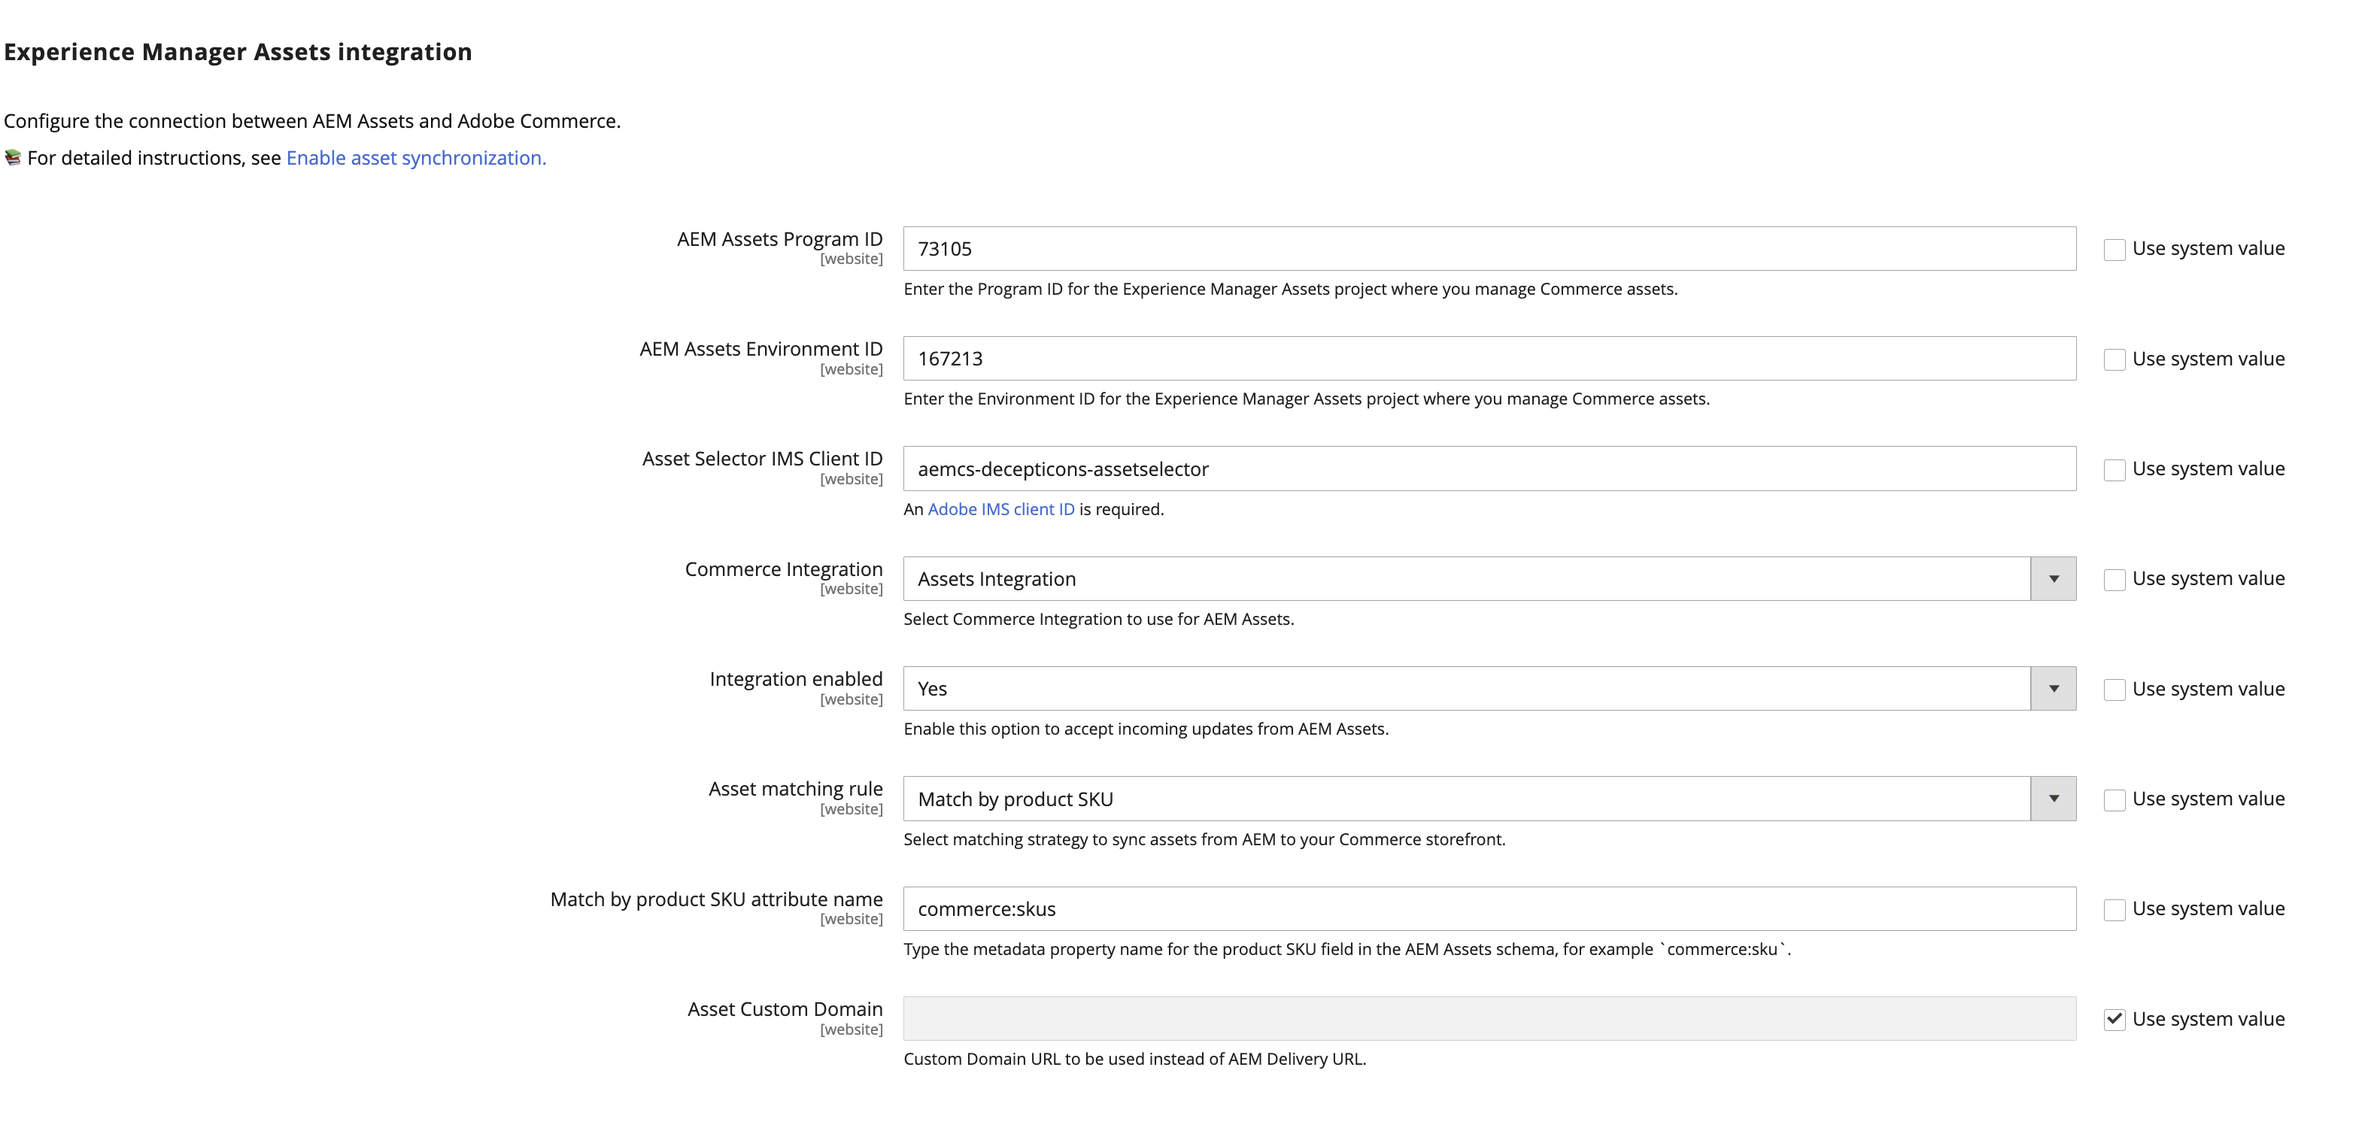
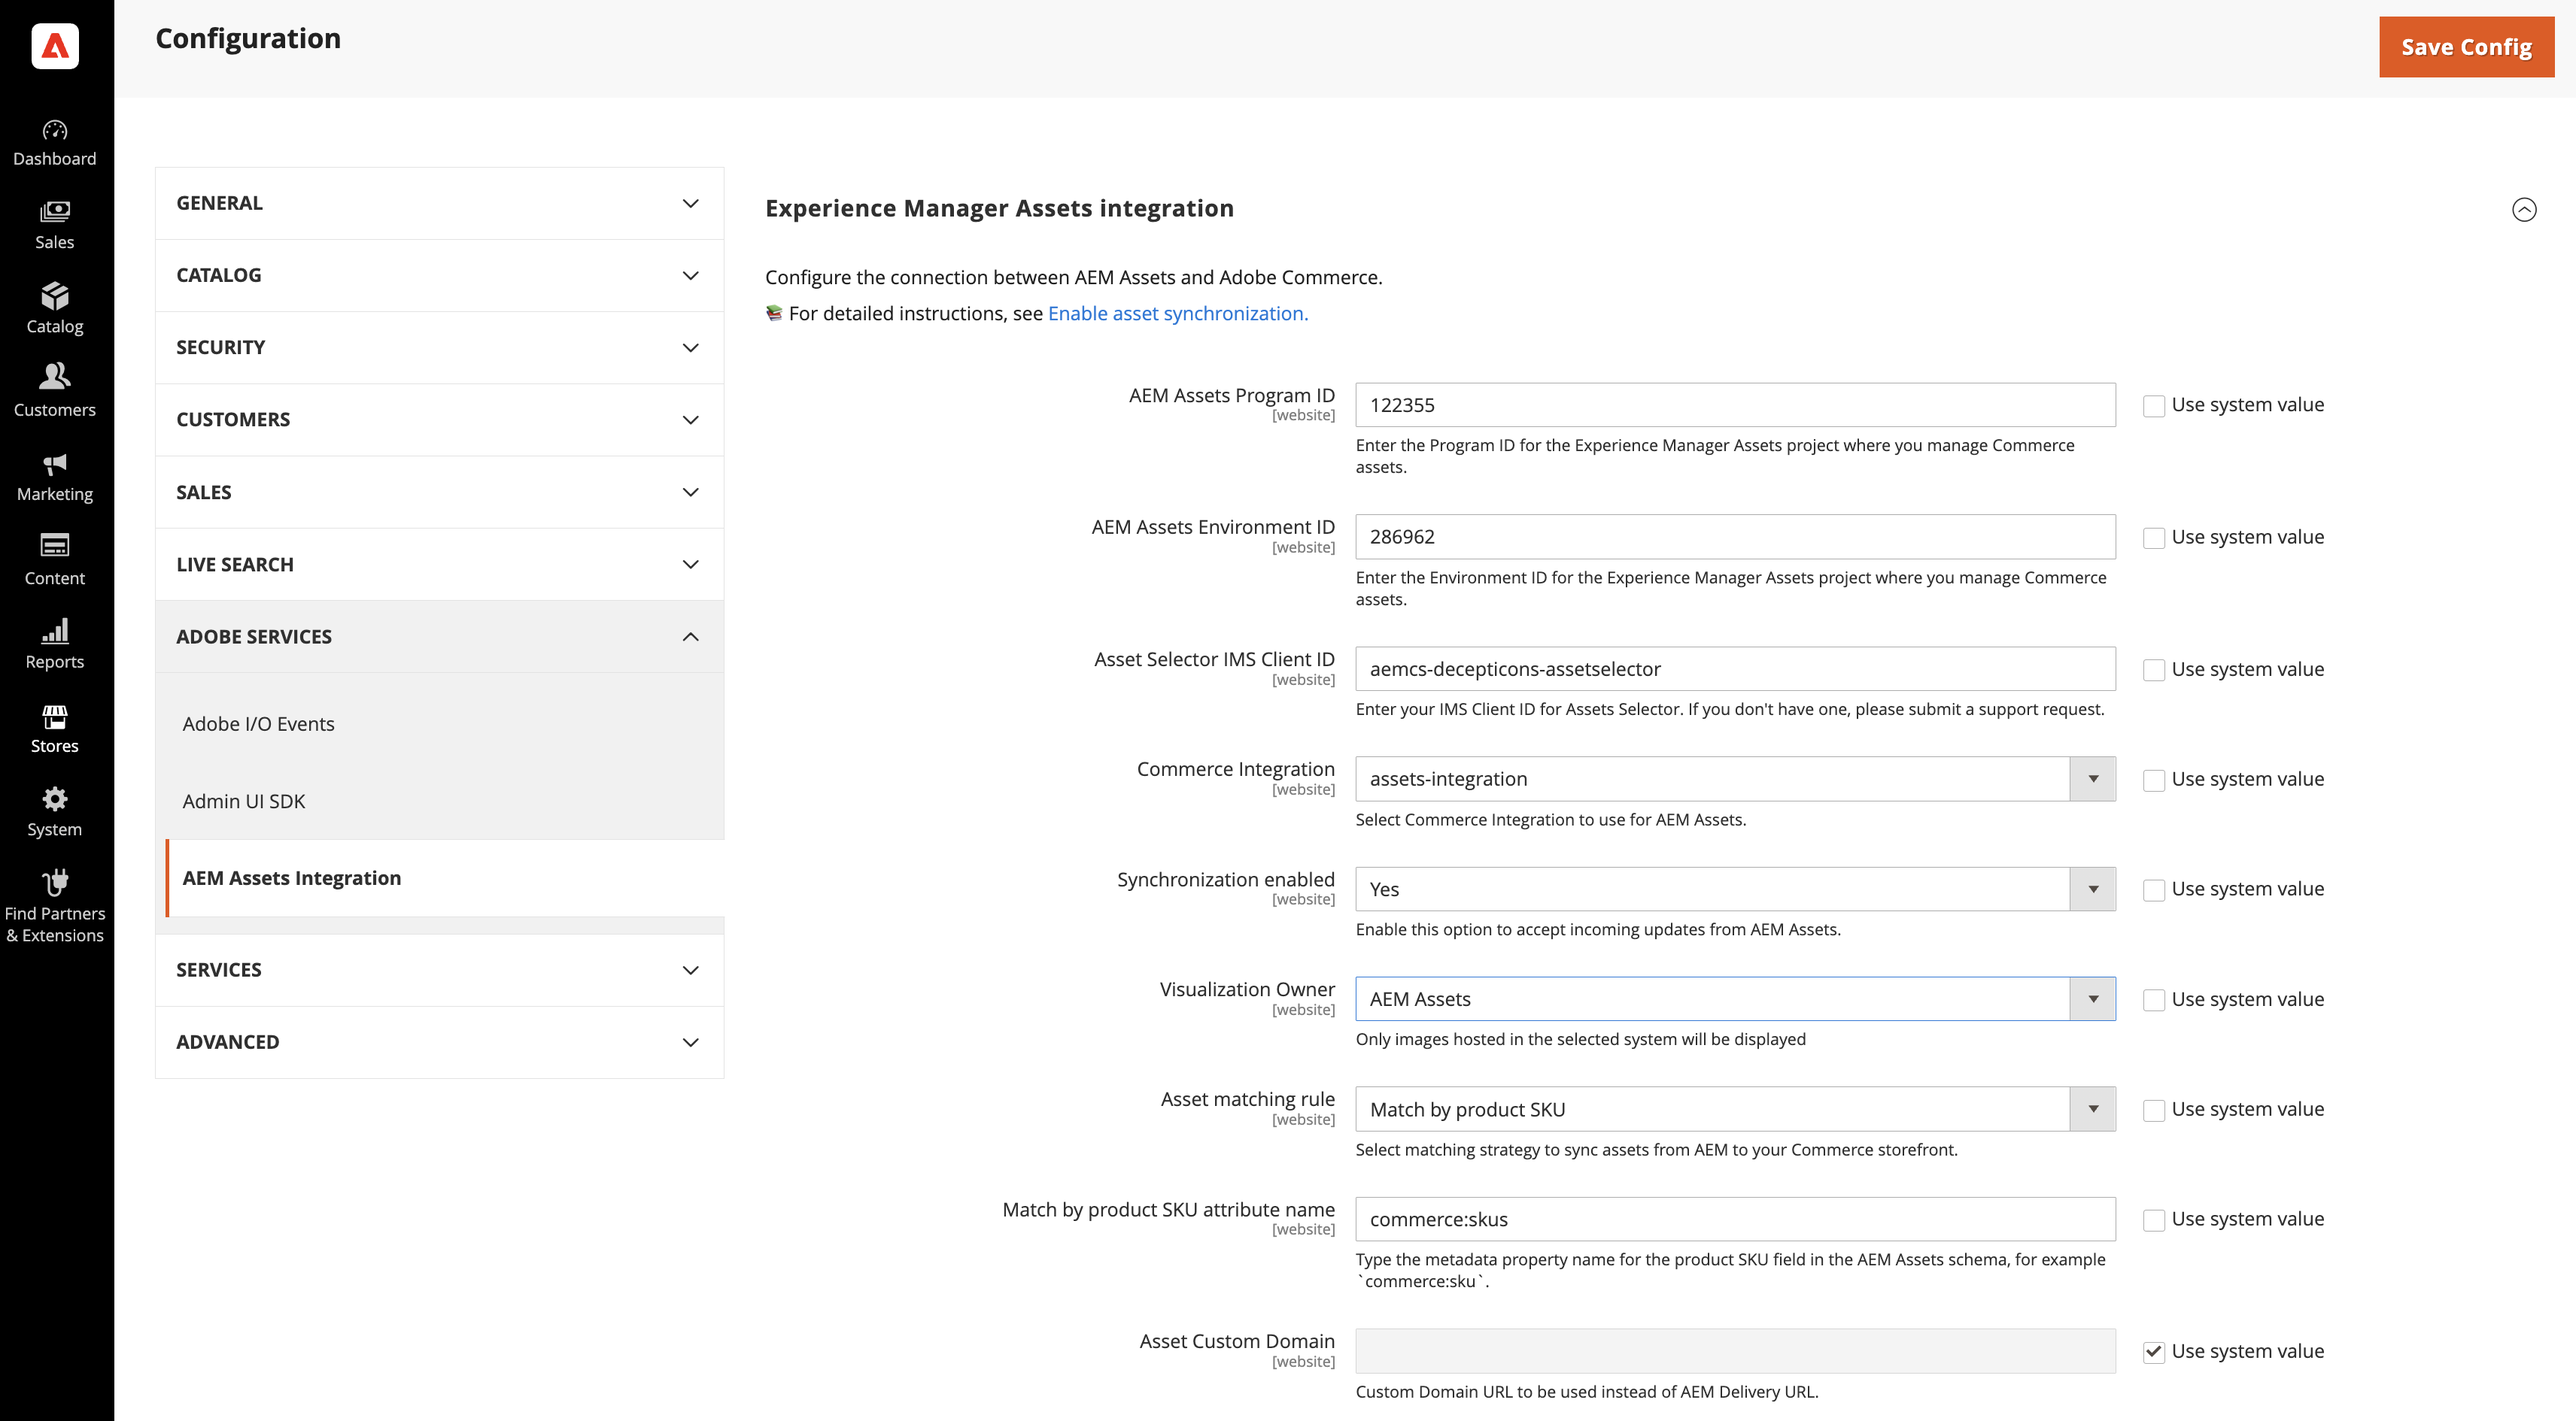
Docs for AEM Assets v1.20 release (#175)
* Added new example usages

* Apply suggestions from code review

* ACAP: Adds v1.2.0 AEM Assets integration release notes (#168)

* Added entry for visualization owner

* Added entry for external matcher

* Update help/aem-assets-integration/release-notes.md

* Update help/aem-assets-integration/release-notes.md

---------

* ACAP-1018: Added section for visualization owner (#167)

* Added section for visualization owner

* Updated topic after ENG review

* Updated section from reviews

* Apply suggestions from code review

* Apply suggestions from code review

---------

---------

diff --git a/help/aem-assets-integration/synchronize/custom-match.md b/help/aem-assets-integration/synchronize/custom-match.md
@@ -31,36 +31,47 @@ This endpoint retrieves the list of SKUs associated with a given asset:
 
 ```bash
 const { Core } = require('@adobe/aio-sdk')
- 
-async function main (params) {
-    // return the products that map to the assetId
+
+async function main(params) {
+
+    // Build your own matching logic here to return the products that map to the assetId
+    // var productMatches = [];
+    // params.assetId
+    // params.eventData.assetMetadata['commerce:isCommerce']
+    // params.eventData.assetMetadata['commerce:skus'][i]
+    // params.eventData.assetMetadata['commerce:roles']
+    // params.eventData.assetMetadata['commerce:positions'][i]
+    // ...
+    // End of your matching logic
+
     return {
-        statusCode: 200,
+        statusCode: 500,
         body: {
-          asset_id: "urn:aaid:aem:1aa1d4a0-18b8-40a7-a228-e0ab588deee1",
-          product_matches: [
-            {
-              product_sku: "SKU1",
-              asset_roles: ["thumbnail"],
-              asset_position: [1]
-            }
-          ]
+            asset_id: params.assetId,
+            product_matches: [
+                {
+                    product_sku: "<YOUR-SKU-HERE>",
+                    asset_roles: ["thumbnail", "image", "swatch_image", "small_image"],
+                    asset_position: 1
+                }
+            ]
         }
-   }
+    };
 }
- 
-exports.main = main
+
+exports.main = main;
 ```
 
 **Request**
 
 ```bash
-GET https://your-app-builder-url/api/v1/web/app-builder-external-rule/asset-to-product
+POST https://your-app-builder-url/api/v1/web/app-builder-external-rule/asset-to-product
 ```
 
 | Parameter | Data Type | Description |
 | --- | --- | --- |
 | `assetId` | String | Represents the updated asset ID |
+| `eventData` | String | Returns the data payload associated with the `assetId` |
 
 **Response**
 
@@ -88,24 +99,32 @@ This endpoint retrieves the list of assets associated with a given SKU:
 
 ```bash
 const { Core } = require('@adobe/aio-sdk')
- 
-async function main (params) {
+
+async function main(params) {
     // return asset matches for a product
+    // Build your own matching logic here to return the assets that map to the productSku
+    // var assetMatches = [];
+    // params.productSku
+    // ...
+    // End of your matching logic
+
     return {
-        statusCode: 200,
+        statusCode: 500,
         body: {
-          product_sku: params.productSku, //SKU-1
-          asset_matches: [
-            {
-              asset_id: "urn:aaid:aem:1aa1d4a0-18b8-40a7-a228-e0ab588deee1",
-              asset_roles: ["thumbnail","image"]
-            }
-          ]
+            product_sku: params.productSku,
+            asset_matches: [
+                {
+                    asset_id: "<YOUR-ASSET-ID-HERE>", // urn:aaid:aem:1aa1d5i2-17h8-40a7-a228-e3ur588deee1
+                    asset_roles: ["thumbnail", "image", "swatch_image", "small_image"],
+                    asset_format: "image", // can be "image" or "video"
+                    asset_position: 1
+                }
+            ]
         }
-      }
+    };
 }
- 
-exports.main = main
+
+exports.main = main;
 ```
 
 **Request**
@@ -116,7 +135,17 @@ GET https://your-app-builder-url/api/v1/web/app-builder-external-rule/product-to
 
 | Parameter | Data Type | Description |
 | --- | --- | --- |
-| `productSKU` | String | Represents the updated product SKU |
+| `productSKU` | String | Represents the updated product SKU. |
+| `asset_matches` | String | Returns all assets associated with a specific `productSku`. |
+
+The `asset_matches` parameter contains the following attributes:
+
+| Attribute | Data Type | Description |
+| --- | --- | --- |
+| `asset_id` | String | Represents the updated asset ID. |
+| `asset_roles` | String | Returns all available asset roles. Uses supported [Commerce asset roles](https://experienceleague.adobe.com/en/docs/commerce-admin/catalog/products/digital-assets/product-image#image-roles) like `thumbnail`, `image`, `small_image`, and `swatch_image`. |
+| `asset_format` | String | Provides the available formats for the asset. Possible values are `image` and `video`. |
+| `asset_position` | String | Shows the position of the asset. |
 
 **Response**
 
@@ -135,7 +164,3 @@ GET https://your-app-builder-url/api/v1/web/app-builder-external-rule/product-to
   ]
 }
 ```
-
->[!TIP]
->
-> In the `asset_roles` key, use supported [Commerce asset roles](https://experienceleague.adobe.com/en/docs/commerce-admin/catalog/products/digital-assets/product-image#image-roles) like `thumbnail`, `image`, `small_image`, and `swatch_image`.

diff --git a/help/aem-assets-integration/get-started/setup-synchronization.md b/help/aem-assets-integration/get-started/setup-synchronization.md
@@ -41,7 +41,7 @@ For the initial setup, use the default *Match by product sku* rule.
 
    1. Go to **[!UICONTROL Store]** > Configuration > **[!UICONTROL ADOBE SERVICES]** > **[!UICONTROL AEM Assets Integration]**.
 
-      ![AEM Assets Integration enable the integration](../assets/aem-assets-integration-enable-config.png){width="600" zoomable="yes"}
+      ![AEM Assets Integration enable the integration](../assets/aem-assets-view.png){width="600" zoomable="yes"}
 
 1. Enter the AEM Assets environment **[!UICONTROL Program ID]** and **[!UICONTROL Environment ID]**.
 
@@ -53,7 +53,9 @@ For the initial setup, use the default *Match by product sku* rule.
 
 1. [!BADGE PaaS only]{type=Informative tooltip="Applies to Adobe Commerce on Cloud projects only (Adobe-managed PaaS infrastructure)."}  Select the [[!UICONTROL Commerce integration]](configure-commerce.md#add-the-integration-to-the-commerce-environment) for authenticating requests between Commerce and the asset matching service.
 
-1. Set **[!UICONTROL Integration enabled]** to `Yes` to allow Commerce to accept incoming updates from AEM Assets.
+1. Set the **[!UICONTROL Commerce integration]** to `assets-integration` to select the Commerce Integration to use with AEM Assets.
+
+1. Set **[!UICONTROL Synchronization enabled]** to `Yes` to allow Commerce to accept incoming updates from AEM Assets.
 
    After enabling the integration, additional configuration options are available to specify asset matching criteria.
 
@@ -78,13 +80,36 @@ The integration guarantees the following synchronization performance levels:
 
 This ensures that product pages always display the most up-to-date images, keeping storefront content accurate and visually appealing.
 
+### Configure the Visualization Owner
+
+The **Visualization Owner** setting determines which system serves product images in the integration:
+
+* Adobe Commerce – Uses images hosted in Commerce.
+* AEM Assets – Uses images synchronized from AEM.
+
+The Admin displays the available images for that owner, while the rest of the images are grayed out and displayed with a **hidden** label.
+
+See the [set image details](https://experienceleague.adobe.com/en/docs/commerce-admin/catalog/products/digital-assets/product-image#set-image-details){target=_blank} topic for details on image display behavior.
+
+>[!TIP]
+>
+> During a migration from Commerce to AEM Assets, set the **Visualization Owner** to Commerce to avoid broken image links. After all the products have been successfully synchronized with AEM Assets, switch to the AEM Assets owner to complete the transition. This ensures continuous image availability throughout the process.
+
+1. Navigate to **[!UICONTROL Store]** > Configuration > **[!UICONTROL ADOBE SERVICES]** > **[!UICONTROL AEM Assets Integration]**.
+
+   ![AEM Assets Integration visualization owner feature](../assets/visualization-owner-detail.png){width="400" zoomable="yes"}
+
+1. Select the **Visualization Owner** source to display the images.
+
+1. Click **[!UICONTROL Save Config]** to apply updates and initiate asset synchronization.
+
 ### Optional. Configure the Custom Domain URL
 
 If the AEM Assets as a Cloud Service project has been configured with a [Custom Domain Name](https://experienceleague.adobe.com/en/docs/experience-manager-cloud-service/content/implementing/using-cloud-manager/custom-domain-names/add-custom-domain-name){target=_blank}, you must add the domain name to the Commerce store configuration so that the AEM Assets integration for Commerce can use it.
 
 1. Navigate to **[!UICONTROL Store]** > Configuration > **[!UICONTROL ADOBE SERVICES]** > **[!UICONTROL AEM Assets Integration]**.
 
-   ![AEM Assets Integration enable the integration](../assets/aem-assets-view.png){width="600" zoomable="yes"}
+   ![AEM Assets Integration enable the integration](../assets/aem-assets-view.png){width="700" zoomable="yes"}
 
 1. Add the **Custom Domain URL** to the **[!UICONTROL Asset Custom Domain]** field.
 

diff --git a/help/aem-assets-integration/release-notes.md b/help/aem-assets-integration/release-notes.md
@@ -28,6 +28,16 @@ _February 11, 2025_
 
 +++
 
+## v1.2.0
+
+_August 7, 2025_
+
+[!BADGE Supported]{type=Informative tooltip="Supported"} Adobe Commerce version 2.4.5 and later releases.
+
+![New issue](../assets/new.svg)<!-- Issue ACAP-1018 --> Now, merchants can choose the source for image and media assets by selecting a [Visualization Owner](https://experienceleague.adobe.com/en/docs/commerce/aem-assets-integration/get-started/setup-synchronization){target=_blank} when configuring the Assets integration from the Admin.
+
+![New issue](../assets/new.svg)<!-- Issue ACAP-1078 --> Updated the [custom automatic matching](https://experienceleague.adobe.com/en/docs/commerce/aem-assets-integration/synchronize/custom-match){target=_blank} endpoints with a new `asset_matches` attribute. This change allows you to implement your own matching logic to return all assets associated with a specific `productSku`.
+
 ## v1.1.2
 
 _June 11, 2025_
